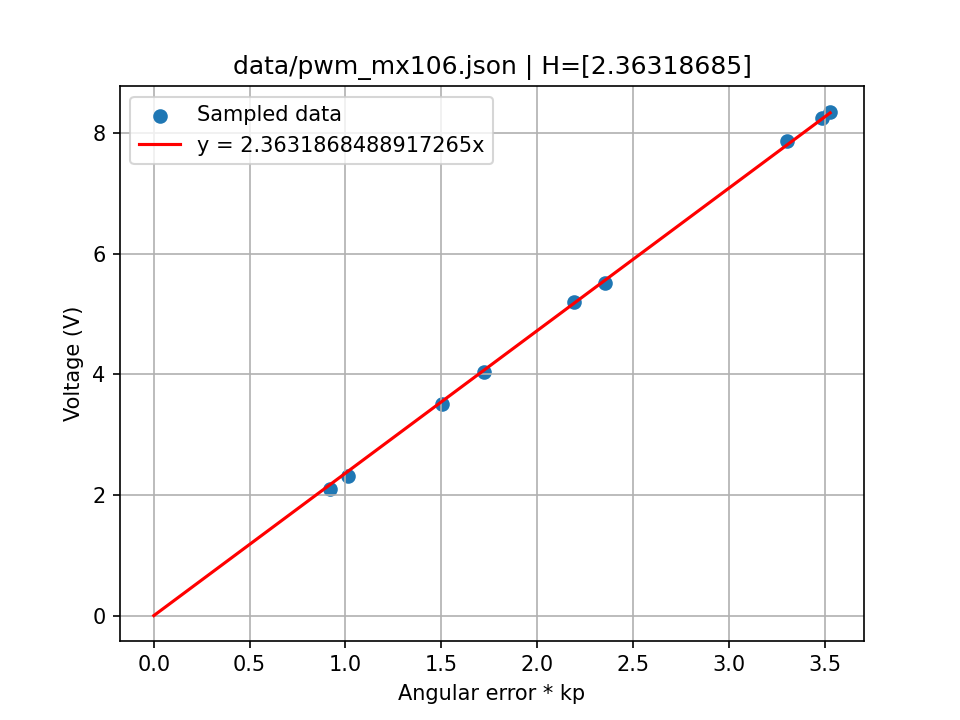
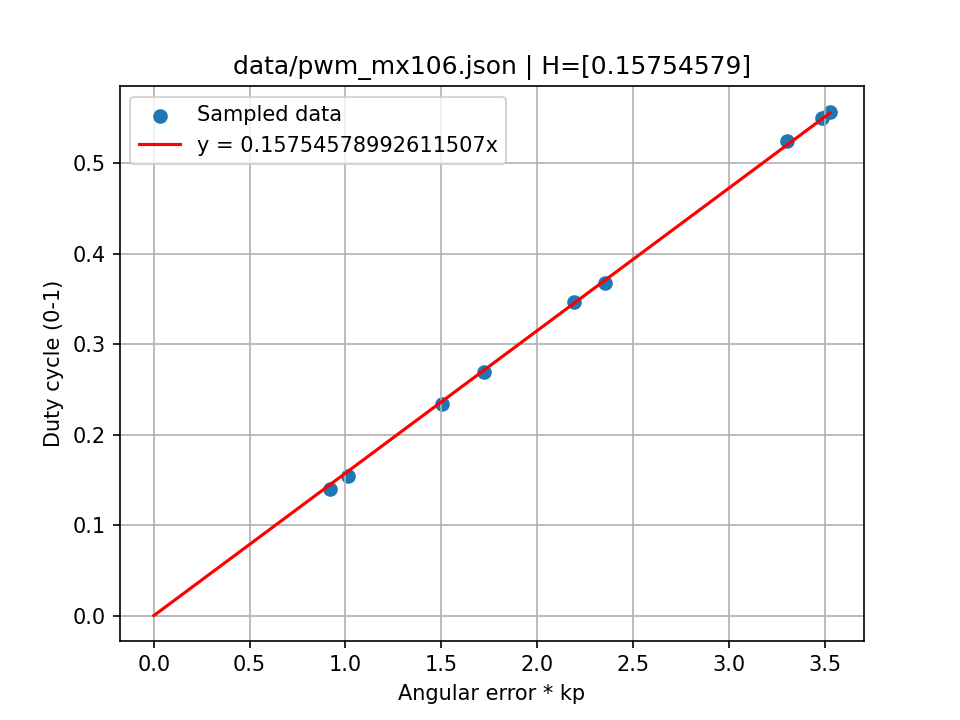
Updating notations

diff --git a/estimate_h.py b/estimate_h.py
@@ -13,7 +13,6 @@ The JSON file should have the following format:
         {
             "target": 157.24,
             "position": 165.2,
-            "voltage": 15.0,
             "period": 4.5,
             "kp": 5
         },
@@ -29,30 +28,29 @@ pwm_period = data["pwm_period"]
 samples = data["samples"]
 
 angular_errors_kp = []
-volts = []
+duties = []
 
 for sample in samples:
-    voltage = sample["voltage"]
     target = sample["target"]
     position = sample["position"]
     period = sample["period"]
     kp = sample["kp"]
 
-    volt = voltage * period / pwm_period
+    duty = period / pwm_period
     angular_error = np.deg2rad(abs(position - target))
     angular_error_kp = kp * angular_error
 
     angular_errors_kp.append(angular_error_kp)
-    volts.append(volt)
+    duties.append(duty)
 
-w = linear_regression(angular_errors_kp, volts)
+w = linear_regression(angular_errors_kp, duties)
 print(f"H: {w}")
 
 import matplotlib.pyplot as plt
 
-plt.scatter(angular_errors_kp, volts, label="Sampled data")
+plt.scatter(angular_errors_kp, duties, label="Sampled data")
 plt.xlabel("Angular error * kp")
-plt.ylabel("Voltage (V)")
+plt.ylabel("Duty cycle (0-1)")
 
 ts = np.linspace(0, max(angular_errors_kp), 1000)
 vs = w * ts

diff --git a/README.md b/README.md
@@ -9,7 +9,7 @@
 * $k_p$ is the Dynamixel P gain in [firmware error unit]/rad,
 * $f_s$ is the static friction in Nm,
 * $f_v$ is the viscous friction in Nm/(rad/s),
-* $H$ is a multiplier to obtain volts in volts/[firmware error unit],
+* $H$ is a multiplier to obtain volts in duty/[firmware error unit],
 * $G$ is the gear ratio (multiplying torque), 200 for MX-64 and 225 for MX-106.
   (**Note:** this can be simplified in all the below equations since all measures are made at the joint level).
 
@@ -18,7 +18,9 @@
 |-----------------|-----------------|-----------------|-----------------|
 | $R$             | ?               | ?               | ohms            |
 | $k_t$           | ?               | ?               | Nm/A            |
-| $H$             | 2.39115541      | 2.36318685      | V/[firmware error unit] |
+| $f_s$           | ?               | 0.212           | Nm              |
+| $f_v$           | ?               | ?               | Nm/(rad/s)      |
+| $H$             | 0.15941036      | 0.15754579      | duty/[firmware error unit] |
 
 ## Equations
 
@@ -112,12 +114,12 @@ To measure $H$, we gave targets and measured the output voltage using an oscillo
 
 ### MX-64
  
-* $H = 2.39115541$
+* $H = 0.15941036$
 
 ![MX-64](imgs/mx64_h.png)
 
 ### MX-106
 
-* $H = 2.36318685$
+* $H = 0.15754579$
 
 ![MX-106](imgs/mx106_h.png)
